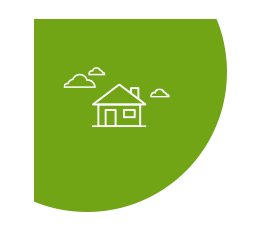
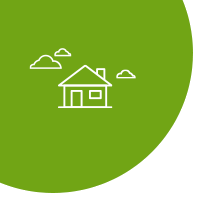
fix pr comments

diff --git a/mortgages/app/templates/includes/_my-mortgage-panel.html b/mortgages/app/templates/includes/_my-mortgage-panel.html
@@ -1,34 +1,29 @@
 <div class="container container_custom pdt-40">
-  <div class="row">
-    <div class="my-mortgage-panel__header">
-      <h2>Mi <span>hipoteca COINC</span></h2>
-      <p>Cómo va mi hipoteca</p>
-    </div>
+  <div class="my-dashboard-section__header">
+    <h2>Mi <span>hipoteca COINC</span></h2>
+    <p>Cómo va mi hipoteca</p>
   </div>
-  <div class="row">
-    <div class="my-mortgage-panel__body alternate-bg">
-      <img src="images/casa-nubes.png" class="my-mortgage-panel__body__icon">
-      <div class="my-mortgage-panel__body__header">
-        <h2>IMPORTE SOLICITADO</h2>
-        <span>200.000 €</span>
-
-      </div>
-      <div class="my-mortgage-panel__body__footer text-center">
-        <div class="clearfix">
-          <div class="halfcol">
-            <button class="btn btn-primary pull-right" type="submit" name="button">Resumen de tu solicitud</button>
-          </div>
-          <div class="halfcol">
-            <button class="btn btn-default pull-left" type="submit" name="button">Contacto</button>
-          </div>
+  <div class="my-dashboard-section__body">
+    <img src="images/casa-nubes.png" class="body__icon">
+    <div class="body__title">
+      <h2>IMPORTE SOLICITADO</h2>
+      <span>200.000 €</span>
+    </div>
+    <div class="text-center">
+      <div class="clearfix">
+        <div class="halfcol">
+          <button class="btn btn-primary pull-right" type="button" name="button">Resumen de tu solicitud</button>
+        </div>
+        <div class="halfcol">
+          <button class="btn btn-default pull-left" type="button" name="button">Contacto</button>
         </div>
       </div>
     </div>
   </div>
-  <div class="row pdb-40">
-    <div class="my-mortgage-panel__footer alternate-bg">
+  <div class="pdb-40">
+    <div class="my-dashboard-section__footer">
       <p>Fecha estimada para firmar tu hipoteca</p>
-      <div class="my-mortgage-panel__footer__date">
+      <div class="footer__date">
         <p>30/06/2017</p>
       </div>
     </div>

diff --git a/mortgages/app/assets/sass/partials/_steps-mortgages.scss b/mortgages/app/assets/sass/partials/_steps-mortgages.scss
@@ -1,4 +1,4 @@
-.my-mortgage-panel {
+.my-dashboard-section {
   &__header {
     margin-bottom: 35px;
     h2 {
@@ -13,24 +13,26 @@
     }
   }
   &__body {
-    height: 380px;
     position: relative;
     overflow: hidden;
-    &__icon {
-      position: absolute;
-      top: -20px;
-      left: -35px;
-    }
-    &__header {
-      text-align: center;
-      padding-top: 20px;
-      h2 {
-        font-size: 16px;
+    background-color: $colorWhite;
+    .body {
+      &__icon {
+        position: absolute;
+        top: 0;
+        left: 0;
       }
-      span {
-        color: $colorGreen-500;
-        font-size: 43px;
-        font-weight: 600;
+      &__title {
+        text-align: center;
+        padding-top: 20px;
+        h2 {
+          font-size: 16px;
+        }
+        span {
+          color: $colorGreen-500;
+          font-size: 43px;
+          font-weight: 600;
+        }
       }
     }
   }
@@ -45,24 +47,23 @@
       margin-left: 32px;
       position: relative;
       top: 50%;
-      -ms-transform: translateY(-50%);
-      -webkit-transform: translateY(-50%);
       transform: translateY(-50%);
     }
-    &__date {
-      position: absolute;
-      right: 0;
-      top: 0;
-      height: 60px;
-      background-color: $colorGray-300;
-      width: 140px;
-      display: table;
-      p {
-        text-align: center;
-        display: table-cell;
-        vertical-align: middle;
-        font-size: 15px;
-        font-weight: 600;
+    .footer {
+      &__date {
+        position: absolute;
+        right: 0;
+        top: 0;
+        height: 60px;
+        background-color: $colorGray-300;
+        width: 140px;
+        p {
+          color: $colorBlueGray-300;
+          text-align: center;
+          font-size: 15px;
+          font-weight: 600;
+          margin-left: 0;
+        }
       }
     }
   }
